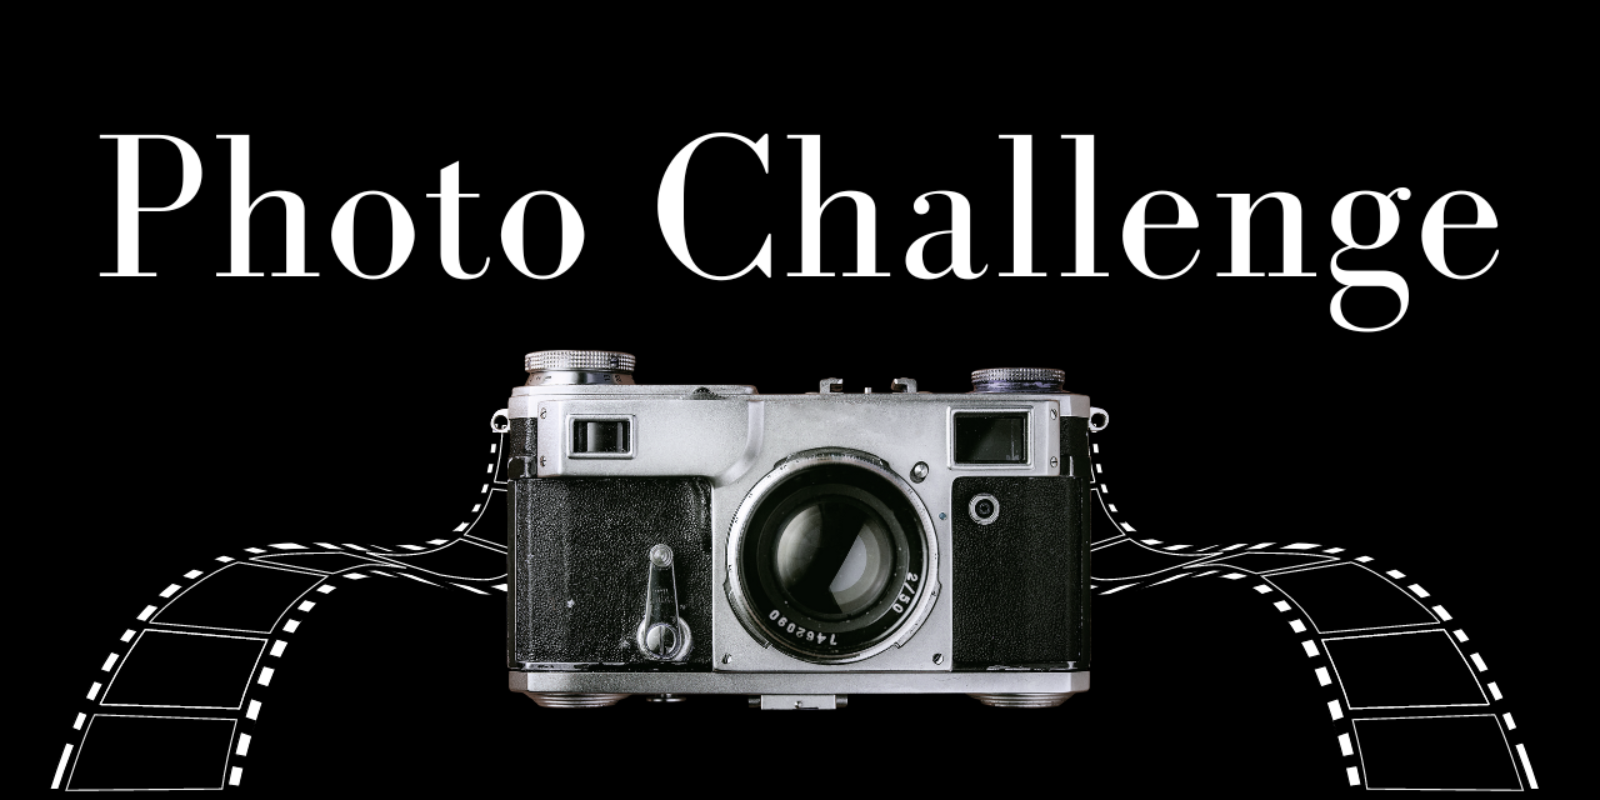
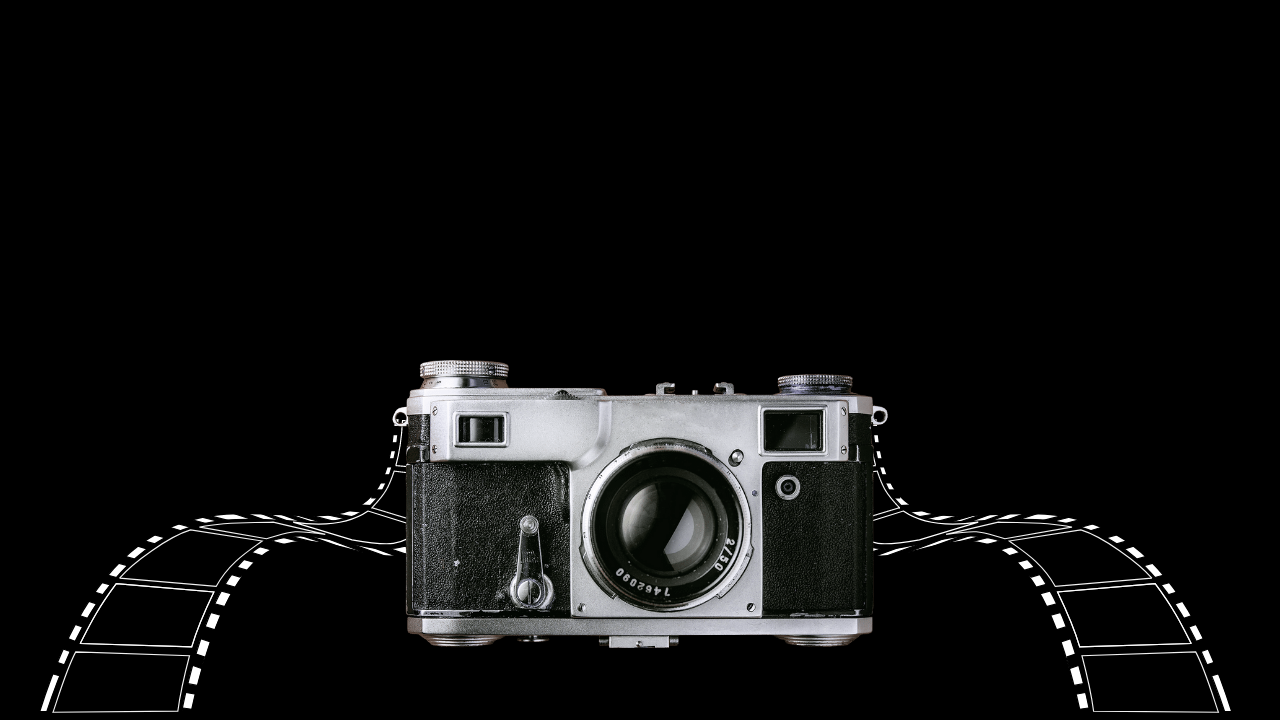
style header and navbar

diff --git a/assets/css/style.css b/assets/css/style.css
@@ -9,7 +9,9 @@
 body {
     font-family: "Urbanist", sans-serif;
     color: red;
-    background-color: #322424;
+    background-image: url("../images/background.png");
+    background-repeat: repeat;
+    background-color: black;
     display: flex;
     flex-direction: column;
     justify-content: center;
@@ -37,7 +39,7 @@ header {
 
     /*animate the zoom effect on loading page*/
     animation-name: hero-zoom;
-    animation-duration: 2s;
+    animation-duration: 3s;
 }
 
 .main_menu {
@@ -47,41 +49,48 @@ header {
     width: 100%;
     top: 0;
     position: fixed;
+    background-color: black;
 
 }
 
 .logo {
     display: flex;
-    width: 100%;
-    justify-content: start;
-    align-items: center;
-
+    color: white;
+    justify-content: flex-start;
 }
 
 .click-menu {
     display: flex;
-    flex-direction: row;
-    align-items: center;
     justify-content: flex-end;
 }
 
 .main_menu a:hover {
-    border-bottom: 1px solid green;
+    border-bottom: 1px solid white;
 }
 
 #menu {
     display: flex;
     flex-direction: row;
     align-items: center;
-    justify-content: flex-end;
+    justify-content: space-between;
+    width: 100%;
 }
 
 #menu li {
     display: flex;
     width: 100%;
     margin-left: 2vw;
+    margin-bottom: 1em;
     align-items: center;
     justify-content: center;
+}
+
+#menu li a {
+    color: white;
+}
+
+.active {
+    border-bottom: 1px solid white;
 }
 
 /* create level of zoom hero-image*/

diff --git a/index.html b/index.html
@@ -44,35 +44,9 @@
 
     <main>
         <section>
-            <h1>Particapate in a challenge!</h1>
-        </section>
-        <section id="how-it-works">
-            <div id="left-about">
-                <div class="left-about-heading">
-                    <h2>Prepare for the challenge<i class="fa-solid fa-business-time"></i></h2>
-                    <hr>
-                    <p>Read through the challenge and the challenge rules.</p>
-                </div>
-            </div>
-            <div id="center-about">
-                <div class="center-about-heading">
-                    <h2>Make you dreams come alive...</h2>
-                    <hr>
-                    <p>Go out, in, under, over, up, down, ouside the box!</p>
-                </div>
-            </div>
-            <div id="right-about">
-                <div class="right-about-heading">
-                    <h2>Submit your work!</h2>
-                    <hr>
-                    <p>Fill out the form and particapate.</p>
-                </div>
-            </div>
-        </section>
-        <section>
-            <!-- Slideshow container -->
-        </section>
 
+        </section>
+        <br>
         <section>
             <h3>Challenge winners</h3>
             <div id="carouselExampleIndicators" class="carousel slide" data-ride="carousel">

diff --git a/challenge.html b/challenge.html
@@ -44,7 +44,7 @@
 
     <main>
         <section>
-            <h1>Particapate in a challenge!</h1>
+            <h1>This months challenge winner</h1>
         </section>
     </main>
 

diff --git a/how-does-it-work.html b/how-does-it-work.html
@@ -39,9 +39,7 @@
             </nav>
         </div>
     </header>
-
-
-
+    <br>
     <main>
         <section>
             <h1>Particapate in a challenge!</h1>
